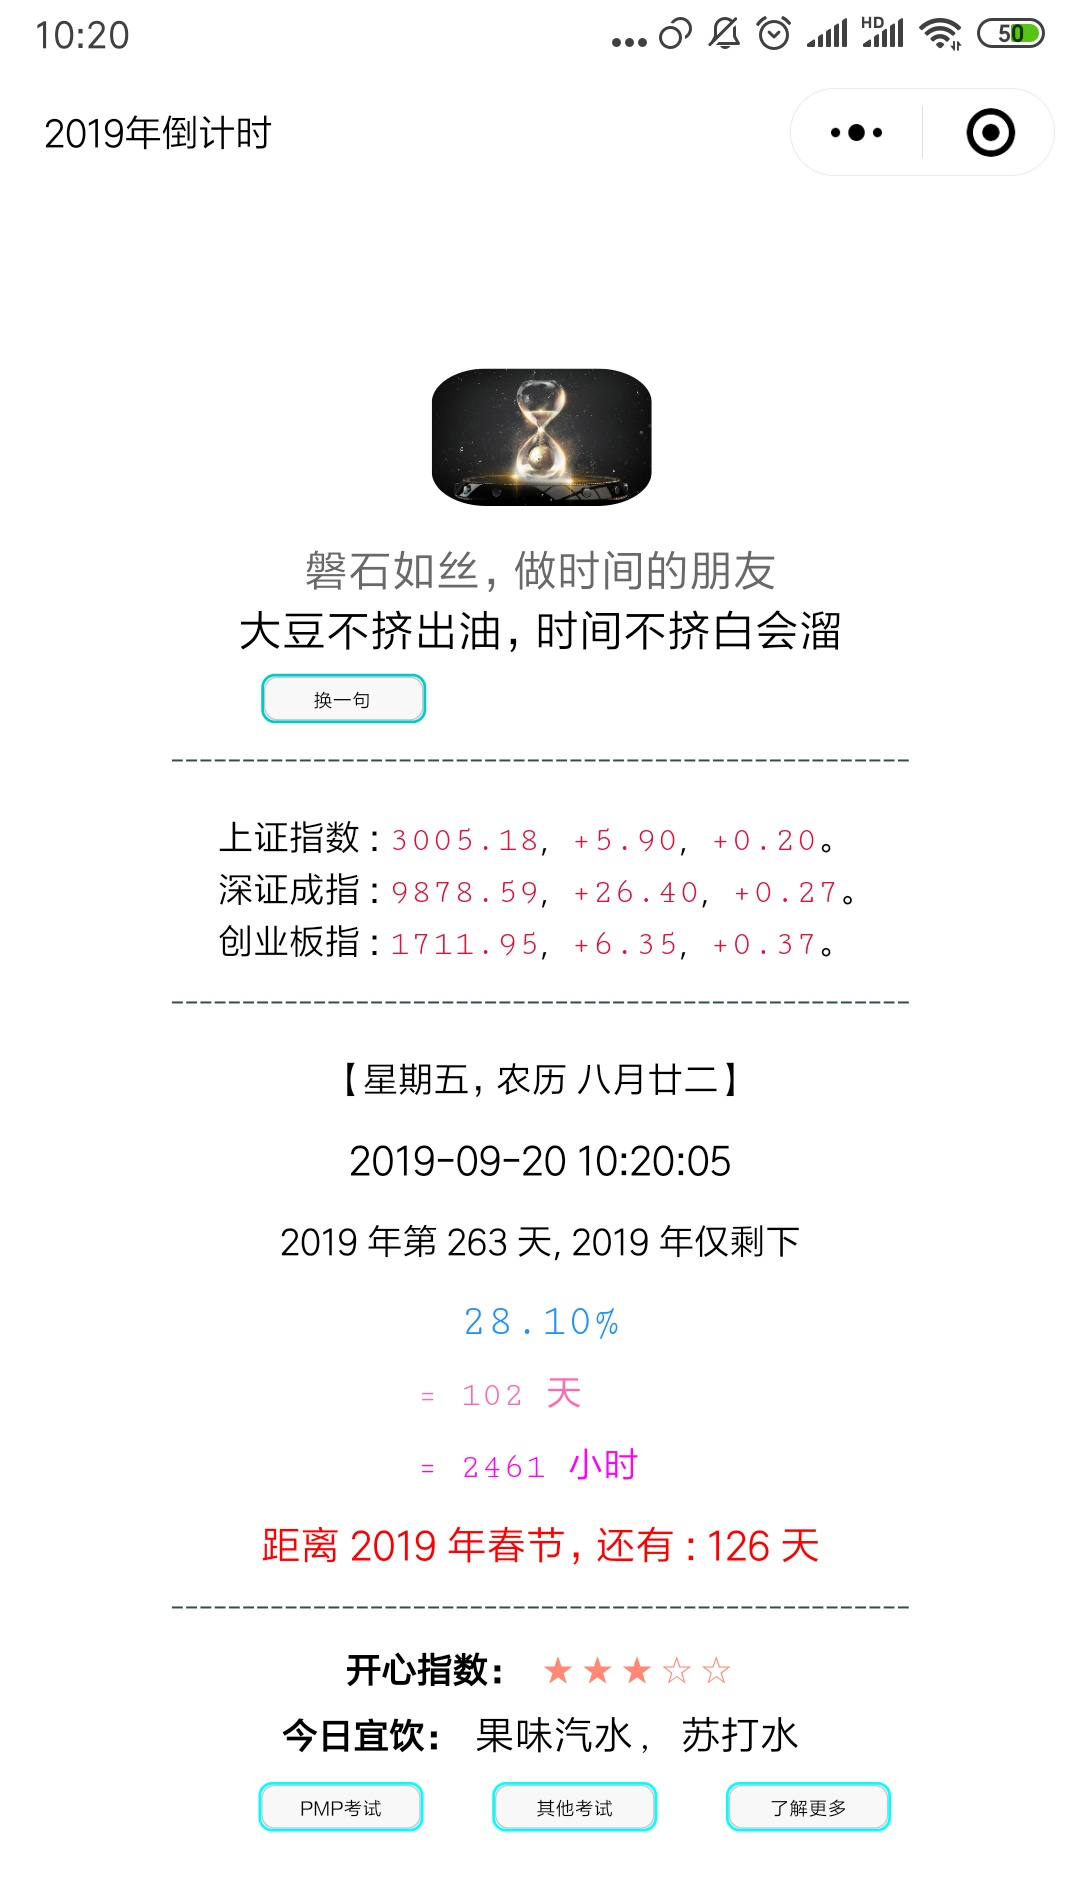
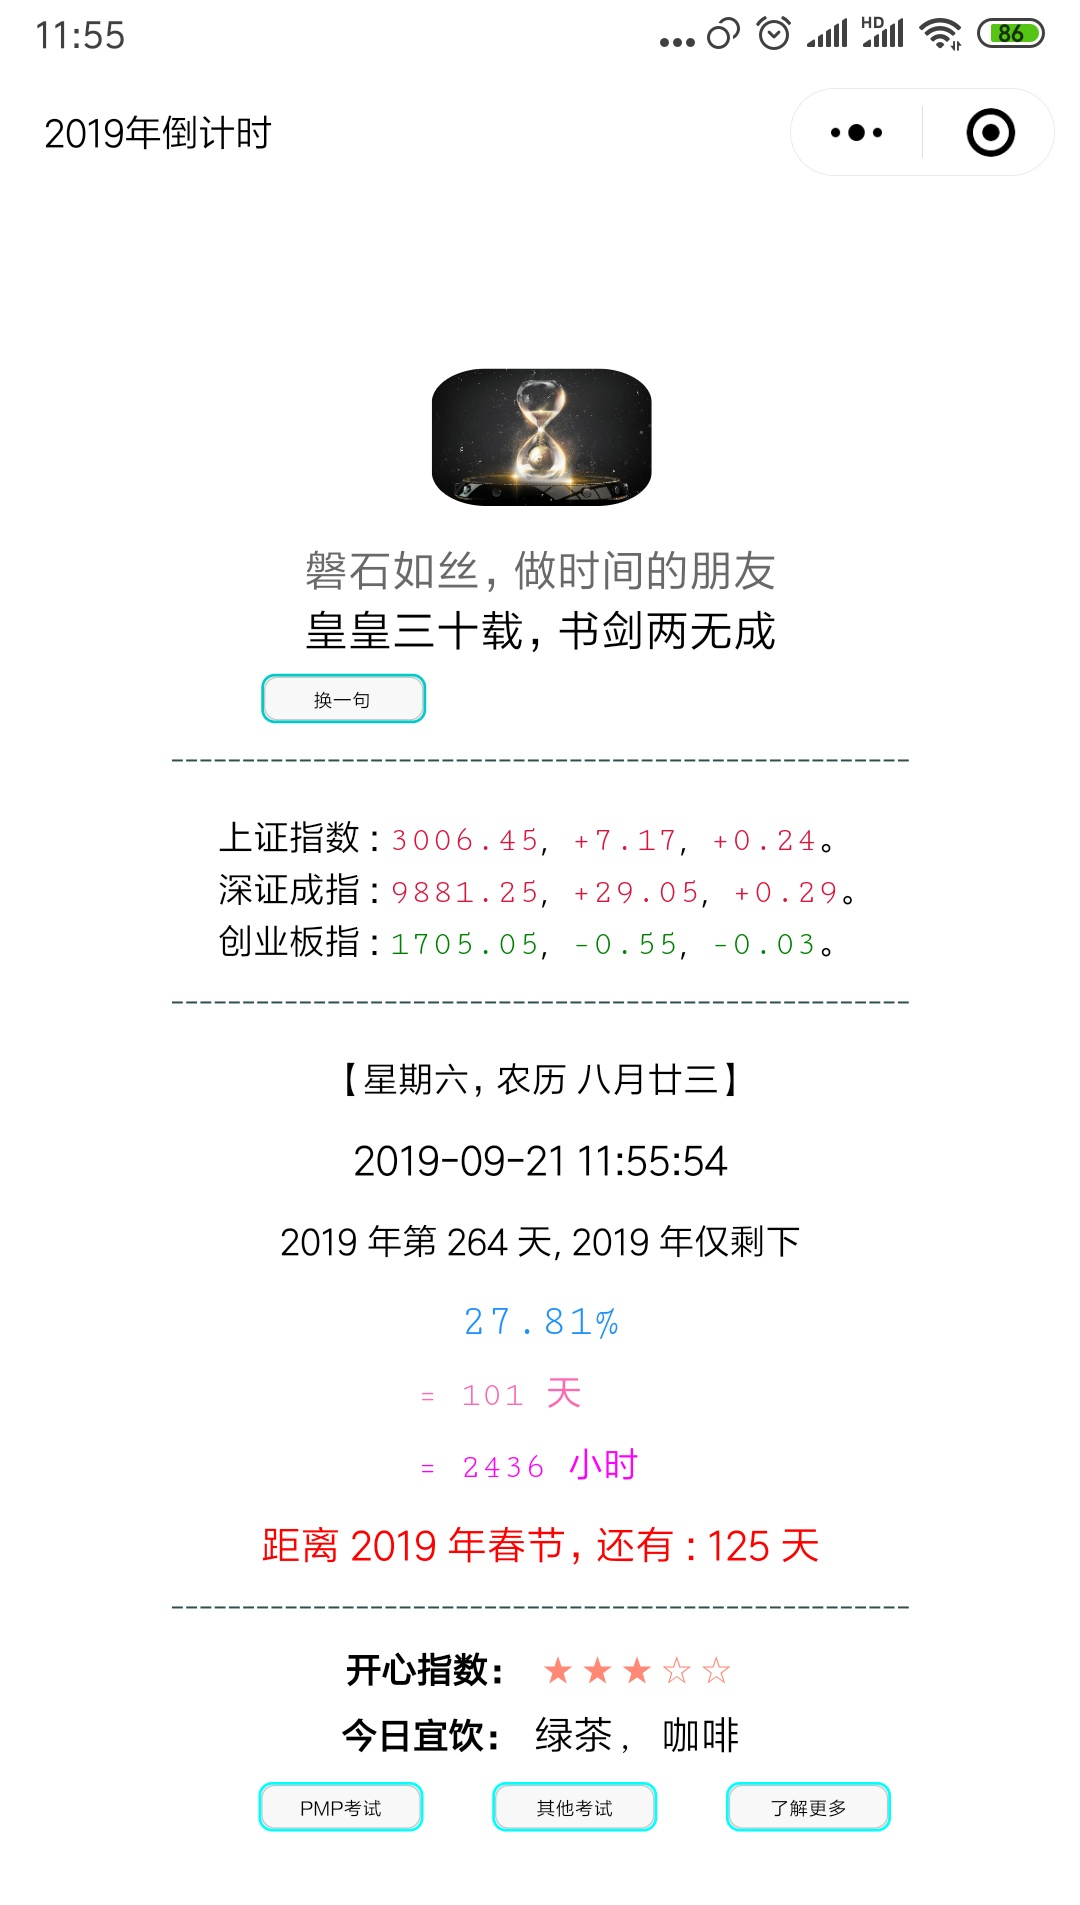
update 20190921-1

diff --git a/source/_posts/001_2-FD_my_life_records-2019.md b/source/_posts/001_2-FD_my_life_records-2019.md
@@ -1,5 +1,5 @@
 ---
-title: 坚持的力量之数据人生-2019年9月20日
+title: 坚持的力量之数据人生-2019年9月21日
 tags:
   - 数据人生
   - 参考模板
@@ -20,14 +20,14 @@ keywords:
   - 宽978高553
 photos:
   - '/images/001_2/photos.png'
-description: 今天：2019 年 9 月 20 日，2019 年仅剩下 102 天。坚持记录和分析生活中的数据、信息和事件，尊重历史数据、信息和事件，人生将会更美好。
-date: 2019-09-20 00:02:05
+description: 今天：2019 年 9 月 21 日，2019 年仅剩下 101 天。坚持记录和分析生活中的数据、信息和事件，尊重历史数据、信息和事件，人生将会更美好。
+date: 2019-09-21 00:02:05
 ---
 <script type="text/javascript" src="/js/src/bai.js"></script>
 
-### 坚持的力量之数据人生-2019年9月20日
+### 坚持的力量之数据人生-2019年9月21日
 ------
-> 今天：2019 年 9 月 20 日，2019 年仅剩下 102 天。坚持记录和分析生活中的数据、信息和事件，尊重历史数据、信息和事件，人生将会更美好。
+> 今天：2019 年 9 月 21 日，2019 年仅剩下 101 天。坚持记录和分析生活中的数据、信息和事件，尊重历史数据、信息和事件，人生将会更美好。
 >
 > 序言：坚持记录和分析生活中的数据、信息和事件，尊重历史数据、信息和事件，人生将会更美好。
 
@@ -72,14 +72,14 @@ date: 2019-09-20 00:02:05
 
 | 序号 |       名称                                            |  类型  | 开始/结束日期 | 总天数 |          备注                           |
 | :--: | :---------------------------------------------------: | :----: | :-----------: | :----: | :-------------------------------------: |
-|  1   | <font color="#FF0000" size=2>读书荐书第 4/4 更</font> | 倒计时 | 2019/10/01    |  10    | 开始时间：2019/7/1                      |
-|  2   | <font color="#FF0000" size=2>重要节点</font>          | 倒计时 | 2020/03/01    |  166   | 开始时间：2018/6/15 剩余 10 个月        |
-|  3   | <font color="#0000FF" size=2>来上海</font>            | 计时   | 2011/06/25    |  2949  | 第 8 年进行中                           |
-|  4   | <font color="#0000FF" size=2>莫名其妙的计时</font>    | 计时   | 2018/11/12    |  307   | 莫名其妙的计时，希望永远不会停 ！！！   |
+|  1   | <font color="#FF0000" size=2>读书荐书第 4/4 更</font> | 倒计时 | 2019/10/01    |  9     | 开始时间：2019/7/1                      |
+|  2   | <font color="#FF0000" size=2>重要节点</font>          | 倒计时 | 2020/03/01    |  165   | 开始时间：2018/6/15 剩余 10 个月        |
+|  3   | <font color="#0000FF" size=2>来上海</font>            | 计时   | 2011/06/25    |  2950  | 第 8 年进行中                           |
+|  4   | <font color="#0000FF" size=2>莫名其妙的计时</font>    | 计时   | 2018/11/12    |  308   | 莫名其妙的计时，希望永远不会停 ！！！   |
 |  5   | <font color="#FF00FF" size=2>博客总计博文</font>      | 计数   | 2018/08/01    |  207   | [博客](/archives) 博文总计数目          |
 |  6   | <font color="#FF00FF" size=2>读书心得札记</font>      | 计数   | 2018/05/26    |  69    | [读书心得笔记并做笔记](/tags/札记人生/) |
 |  7   | <font color="#FF00FF" size=2>五篇好文推荐</font>      | 计数   | 2018/10/24    |  50    | [美文推荐](/tags/美文推荐/)             |
-|  8   | <font color="#FF00FF" size=2>公众号更新</font>        | 计数   | 2018/12/01    |  116   | [微信公众号（4 篇删除）](https://mp.weixin.qq.com/s/xxIkfGMFU7BaCeCJtdrtDg) |
+|  8   | <font color="#FF00FF" size=2>公众号更新</font>        | 计数   | 2018/12/01    |  117   | [微信公众号（4 篇删除）](https://mp.weixin.qq.com/s/xxIkfGMFU7BaCeCJtdrtDg) |
 
 #### 2. ❤ 今天记账了吗？记了，✔。 ❤
 ##### 2.1 记账信息详情
@@ -87,11 +87,11 @@ date: 2019-09-20 00:02:05
 
 | 日期                                   | 记账新增记录 | 记账总记录 | 记账总天数 | 记账时间      | 备注     |
 | :------:                               | :------:     | :------:   | :------:   | :------:      | :------: |
-|<font color="#000000"> 20190916 </font> | 4            | 10861      | 3129       | 8 年零 200 天 | 无       |
 |<font color="#000000"> 20190917 </font> | 5            | 10866      | 3130       | 8 年零 201 天 | 无       |
 |<font color="#000000"> 20190918 </font> | 4            | 10870      | 3131       | 8 年零 202 天 | 无       |
 |<font color="#000000"> 20190919 </font> | 5            | 10875      | 3136       | 8 年零 203 天 | 无       |
-|<font color="#FF0000"> 20190920 </font> | 8            | 10883      | 3137       | 8 年零 204 天 | 无       |
+|<font color="#000000"> 20190920 </font> | 8            | 10883      | 3137       | 8 年零 204 天 | 无       |
+|<font color="#FF0000"> 20190921 </font> | 3            | 10886      | 3138       | 8 年零 205 天 | 无       |
 
 
 #### 3. 历史数据汇总

diff --git a/source/_posts/001_1-FD_2018_year_all_checker-2019.md b/source/_posts/001_1-FD_2018_year_all_checker-2019.md
@@ -1,5 +1,5 @@
 ---
-title: 2019年每日日常综合打卡-2019年9月20日
+title: 2019年每日日常综合打卡-2019年9月21日
 tags:
   - 数据人生
   - 参考模板
@@ -21,14 +21,14 @@ keywords:
   - 宽978高553
 photos:
   - '/images/001_1/photos.png'
-description: 今天：2019 年 9 月 20 日，2019 年仅剩下 102 天。每天坚持打卡，9 月份针对每个任务打卡，慢慢来，一切都会更好的。
-date: 2019-09-20 00:01:01
+description: 今天：2019 年 9 月 21 日，2019 年仅剩下 101 天。每天坚持打卡，9 月份针对每个任务打卡，慢慢来，一切都会更好的。
+date: 2019-09-21 00:01:01
 ---
 <script type="text/javascript" src="/js/src/bai.js"></script>
 
-### 2019年每日日常综合打卡-2019年9月20日
+### 2019年每日日常综合打卡-2019年9月21日
 ---
-> 今天：2019 年 9 月 20 日，2018 年仅剩下 102 天。每日打卡，9 月份针对每个任务打卡，慢慢来，一切都会更好的。
+> 今天：2019 年 9 月 21 日，2018 年仅剩下 101 天。每日打卡，9 月份针对每个任务打卡，慢慢来，一切都会更好的。
 ---
 
 #### [我的微信公众号](https://mp.weixin.qq.com/s/xxIkfGMFU7BaCeCJtdrtDg)
@@ -75,7 +75,7 @@ date: 2019-09-20 00:01:01
 | 18 |五 ⭕  |一 ⭕  |一 ⭕  |四 ⭕  |六 ⭕  |二 ⭕  |四 ⭕  |日 ⭕  |三 ⭕  |五     |一     |三     |
 | 19 |六 ⭕  |二 ⭕  |二 ⭕  |五 ⭕  |日 ⭕  |三 ⭕  |五 ⭕  |一 ⭕  |四 ⭕  |六     |二     |四     |
 | 20 |日 ⭕  |三 ⭕  |三 ⭕  |六 ⭕  |一 ⭕  |四 ⭕  |六 ⭕  |二 ⭕  |五 ⭕  |日     |三     |五     |
-| 21 |一 ⭕  |四 ⭕  |四 ⭕  |日 ⭕  |二 ⭕  |五 ⭕  |日 ⭕  |三 ⭕  |六     |一     |四     |六     |
+| 21 |一 ⭕  |四 ⭕  |四 ⭕  |日 ⭕  |二 ⭕  |五 ⭕  |日 ⭕  |三 ⭕  |六 ⭕  |一     |四     |六     |
 | 22 |二 ⭕  |五 ⭕  |五 ⭕  |一 ⭕  |三 ⭕  |六 ⭕  |一 ⭕  |四 ⭕  |日     |二     |五     |日     |
 | 23 |三 ⭕  |六 ⭕  |六 ⭕  |二 ⭕  |四 ⭕  |日 ⭕  |二 ⭕  |五 ⭕  |一     |三     |六     |一     |
 | 24 |四 ⭕  |日 ⭕  |日 ⭕  |三 ⭕  |五 ⭕  |一 ⭕  |三 ⭕  |六 ⭕  |二     |四     |日     |二     |
@@ -113,7 +113,7 @@ date: 2019-09-20 00:01:01
 | 18 <font color="#000000">三</font> | ⭕        | ⭕        | ⭕        | ⭕        | ⭕        | ⭕        |           |
 | 19 <font color="#000000">四</font> | ⭕        | ⭕        | ⭕        | ⭕        | ⭕        | ⭕        |           |
 | 20 <font color="#000000">五</font> | ⭕        | ⭕        | ⭕        | ⭕        | ⭕         | ⭕        |           |
-| 21 <font color="#FF0000">六</font> |           |           |           |           |           |           |           |
+| 21 <font color="#FF0000">六</font> | ⭕        | ⭕        | ⭕        | ⭕        | ⭕        | ⭕        |           |
 | 22 <font color="#FF0000">日</font> |           |           |           |           |           |           |           |
 | 23 <font color="#000000">一</font> |           |           |           |           |           |           |           |
 | 24 <font color="#000000">二</font> |           |           |           |           |           |           |           |
